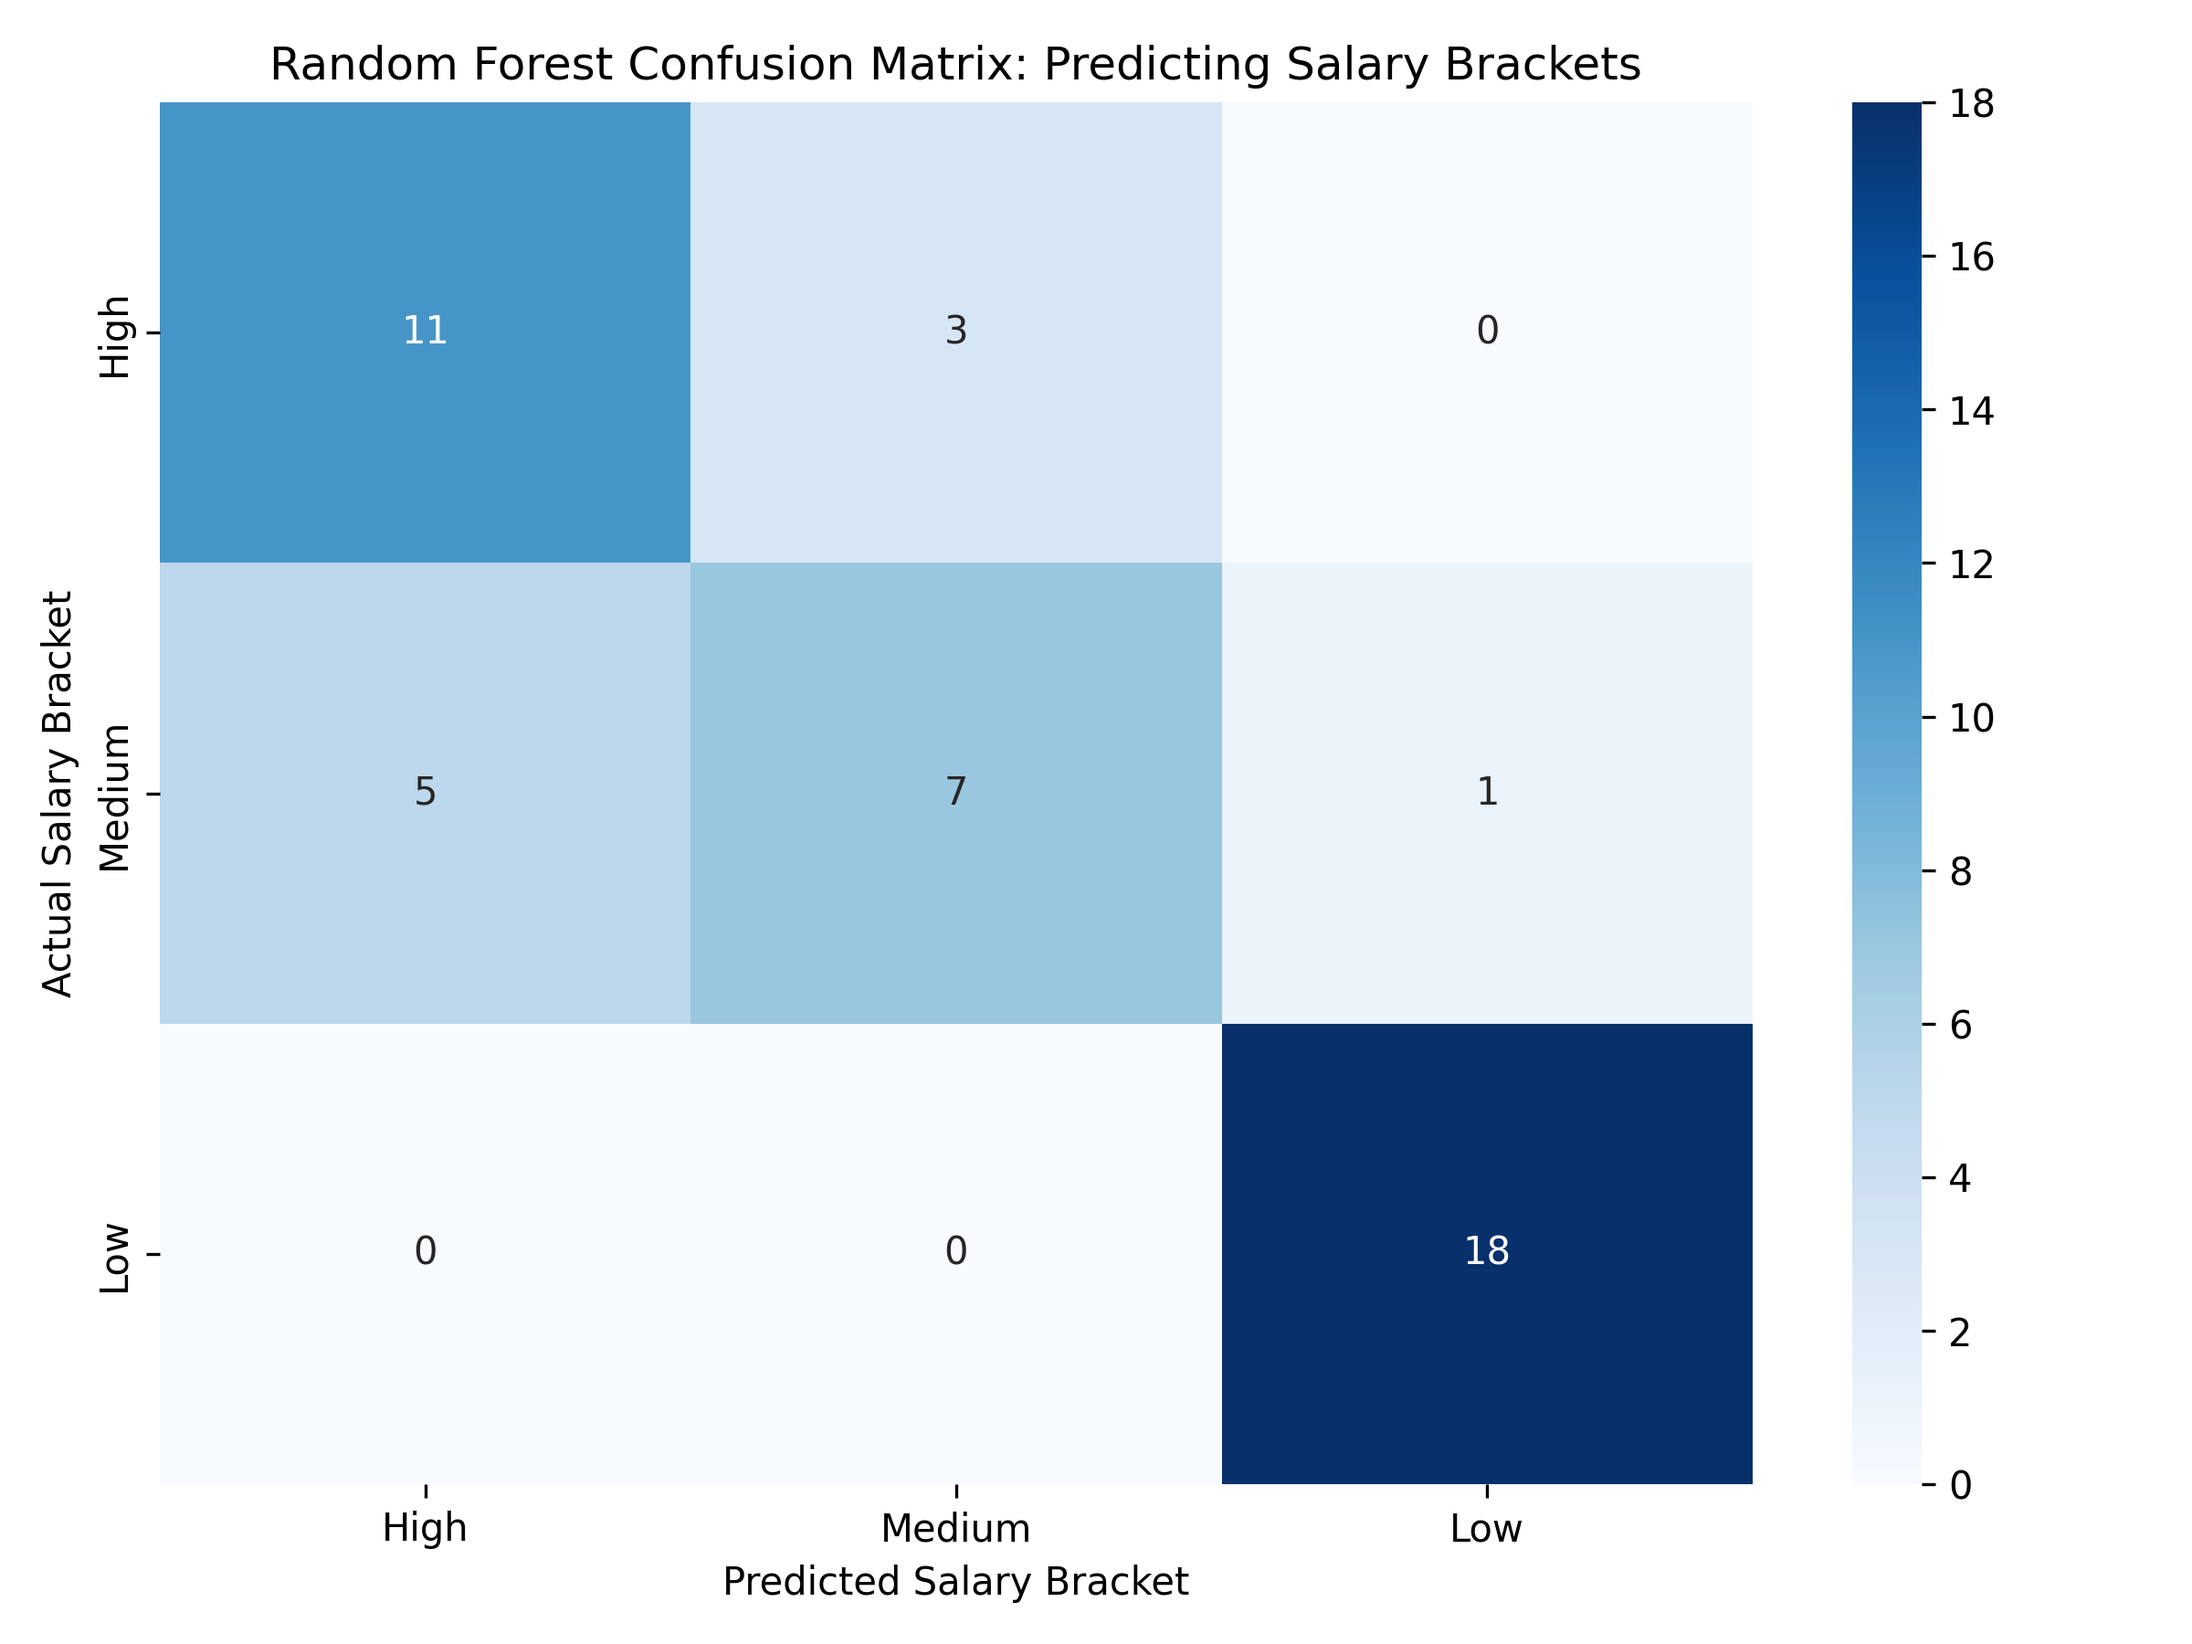
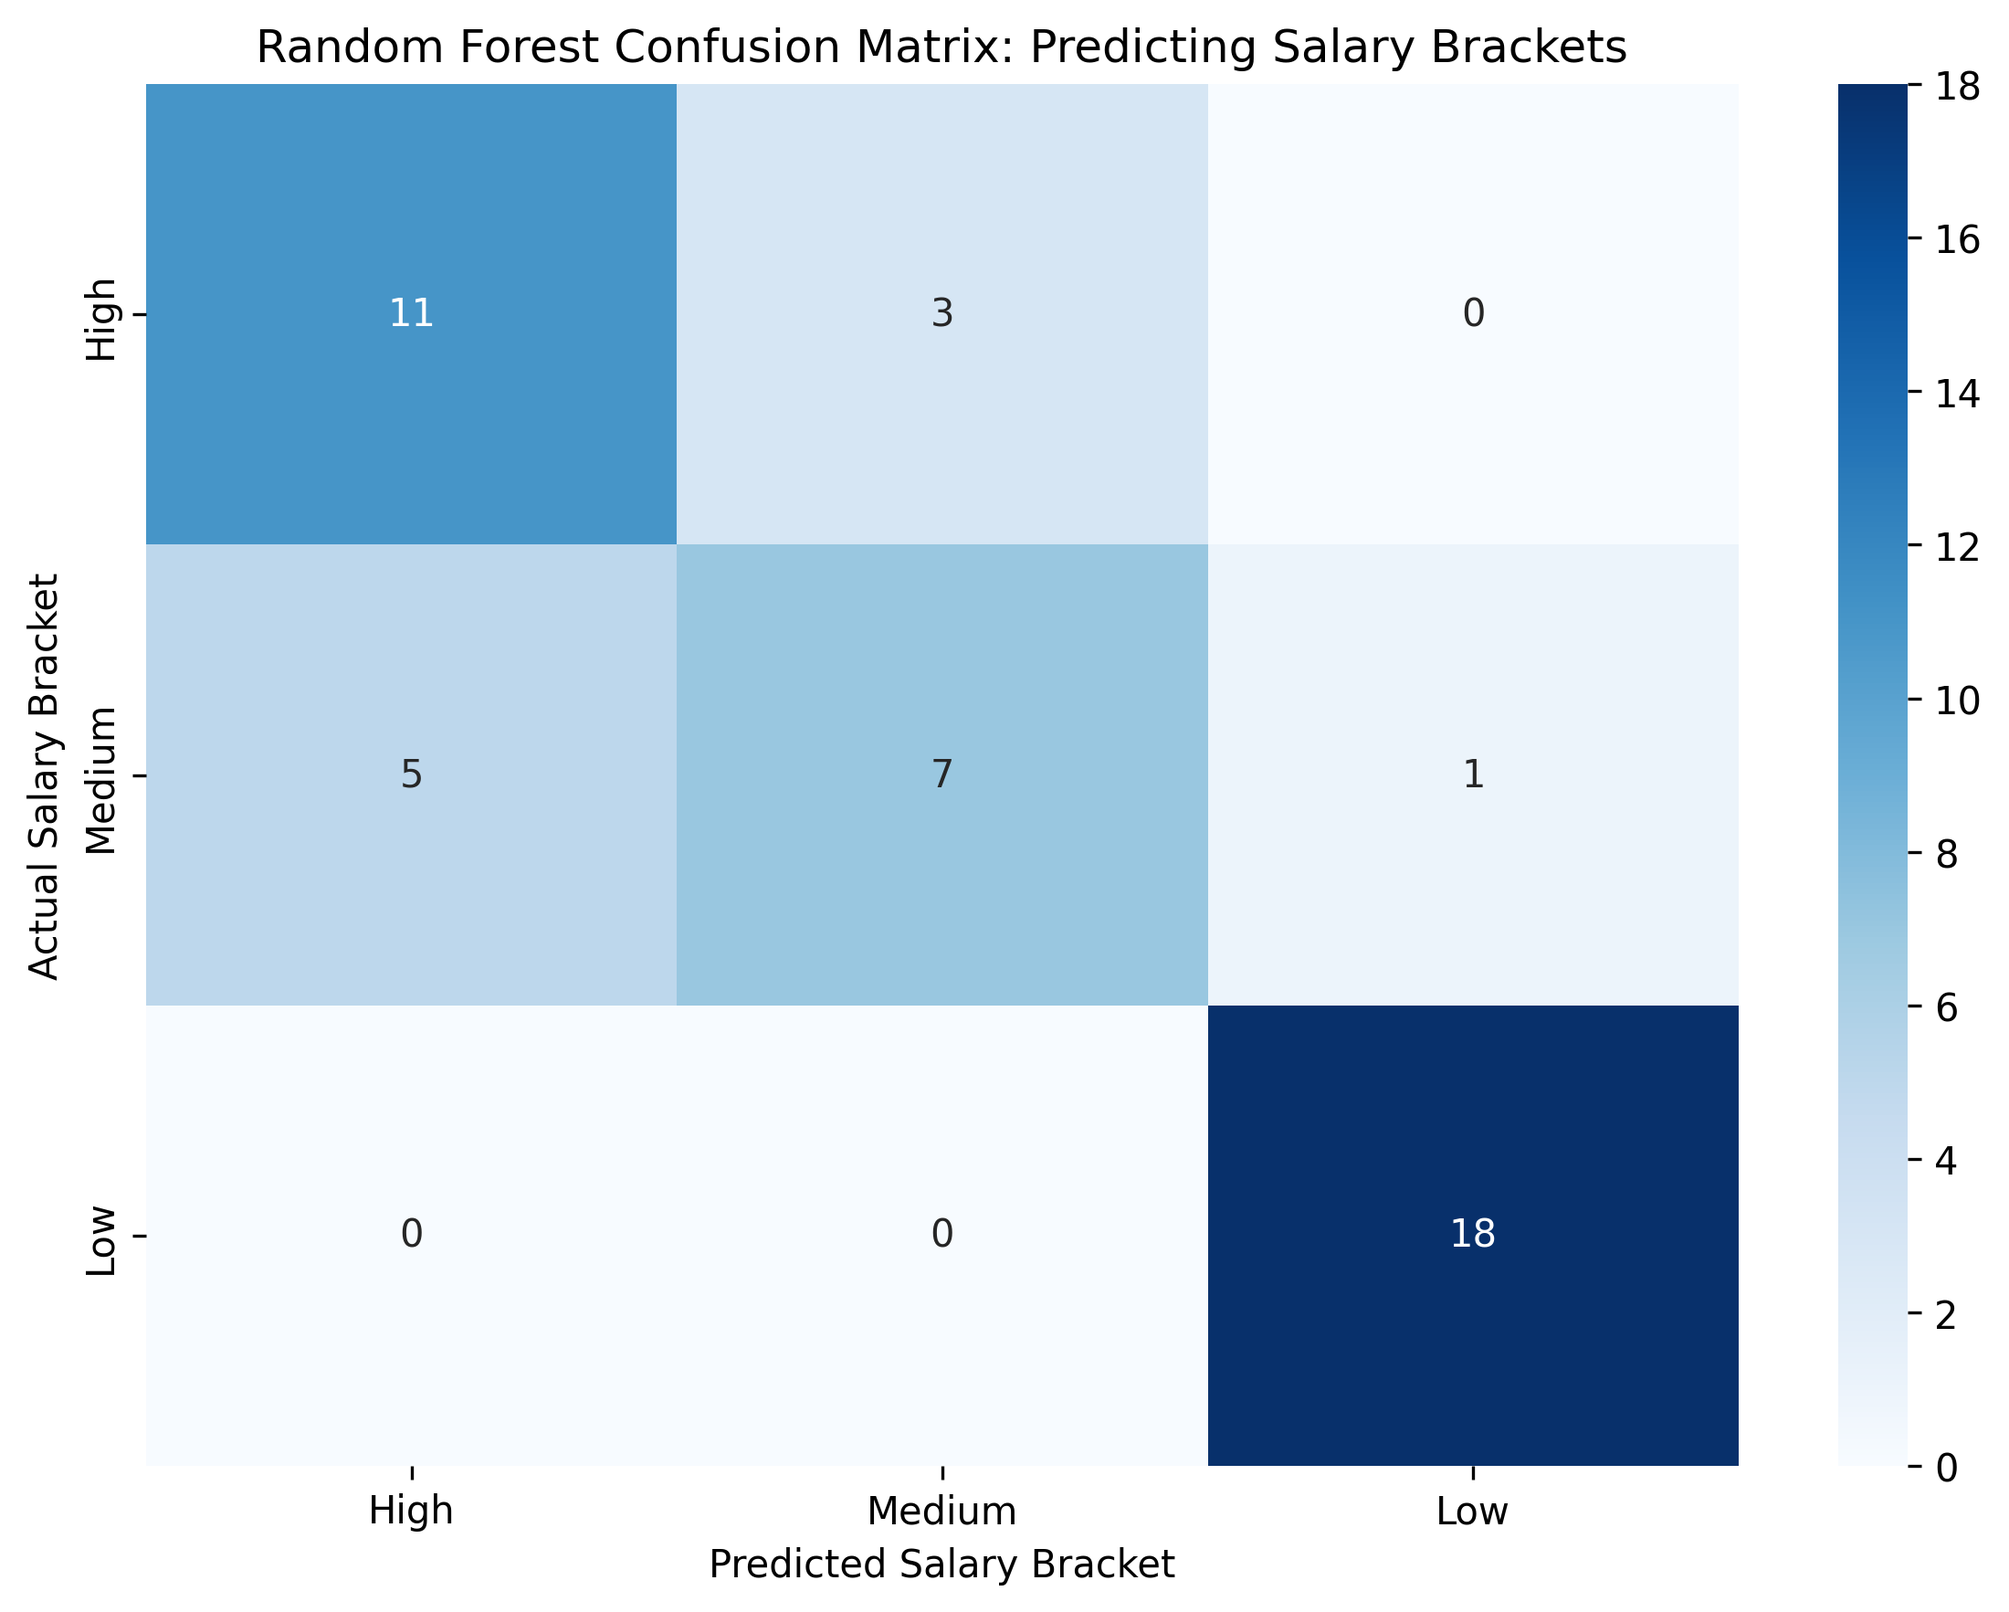
EDA Calcs

diff --git a/MLM.py b/MLM.py
@@ -1,5 +1,3 @@
-from ast import Load
-
 import pandas as pd
 import numpy as np
 import matplotlib.pyplot as plt
@@ -15,44 +13,85 @@ df_age = pd.read_csv('jadual_a1_umur_jumlah_cleaned.csv').dropna(subset=['Mean_S
 df_edu = pd.read_csv('jadual_a3_tp_jum_cleaned.csv').dropna(subset=['Mean_Salary'])
 
 # Descriptive Statistics
-print("--- DESCRIPTIVE STATISTICS (Education Dataset) ---")
-mean_sal = df_edu['Mean_Salary'].mean()
-median_sal = df_edu['Mean_Salary'].median()
-sd_sal = df_edu['Mean_Salary'].std()
+print("--- 1. GENERATING DESCRIPTIVE STATISTICS TABLES ---")
 
-# Calculate Interquartile Range (IQR)
-q3, q1 = np.percentile(df_edu['Mean_Salary'], [75, 25])
-iqr_sal = q3 - q1
+# Calculate and Render Education Stats Table
+edu_stats = df_edu.groupby('Category')['Mean_Salary'].agg(
+    Count='count', Mean='mean', Median='median', Std_Dev='std', Min='min', Max='max'
+).round(2).reset_index()
+edu_stats.rename(columns={'Category': 'Education Level'}, inplace=True)
 
-print(f"Mean Salary: RM {mean_sal:.2f}")
-print(f"Median Salary: RM {median_sal:.2f}")
-print(f"Standard Deviation: RM {sd_sal:.2f}")
-print(f"Interquartile Range (IQR): RM {iqr_sal:.2f}\n")
+fig, ax = plt.subplots(figsize=(12, 4)) 
+ax.axis('off')
+ax.axis('tight')
+
+table_edu = ax.table(cellText=edu_stats.values.tolist(), colLabels=edu_stats.columns.tolist(), loc='center', cellLoc='center')
+table_edu.auto_set_font_size(False)
+table_edu.set_fontsize(11)
+table_edu.scale(1.2, 2.2)
+
+for (row, col), cell in table_edu.get_celld().items():
+    if row == 0:
+        cell.set_text_props(weight='bold', color='white')
+        cell.set_facecolor('#4c72b0')
+    else:
+        cell.set_facecolor('#f2f2f2' if row % 2 == 0 else '#ffffff')
+
+plt.title('Descriptive Statistics by Education Level', fontweight='bold', fontsize=14, pad=30)
+plt.savefig('eda_education_table_visual.png', dpi=300, bbox_inches='tight')
+plt.close()
+
+# Calculate and Render Overall Distribution Metrics Table
+overall_stats = pd.DataFrame({
+    'Metric': ['Overall Mean', 'Overall Median', 'Skewness (Right-Skewed)', 'Kurtosis'],
+    'Value': [
+        round(df_age['Mean_Salary'].mean(), 2),
+        round(df_age['Mean_Salary'].median(), 2),
+        round(df_age['Mean_Salary'].skew(), 3),
+        round(df_age['Mean_Salary'].kurtosis(), 3)
+    ]
+})
+
+fig2, ax2 = plt.subplots(figsize=(7, 3))
+ax2.axis('off')
+table_overall = ax2.table(cellText=overall_stats.values.tolist(), colLabels=overall_stats.columns.tolist(), loc='center', cellLoc='center')
+table_overall.auto_set_font_size(False)
+table_overall.set_fontsize(11)
+table_overall.scale(1.2, 2.2)
+
+for (row, col), cell in table_overall.get_celld().items():
+    if row == 0:
+        cell.set_text_props(weight='bold', color='white')
+        cell.set_facecolor('#55a868')
+    else:
+        cell.set_facecolor('#f2f2f2' if row % 2 == 0 else '#ffffff')
+
+plt.title('Overall Salary Distribution Metrics', fontweight='bold', fontsize=14, pad=30)
+plt.savefig('eda_overall_stats_visual.png', dpi=300, bbox_inches='tight')
+plt.close()
+print("Success: Generated visual tables for Descriptive Statistics.\n")
 
 # Statistical Inference
-print("--- HYPOTHESIS TEST 1: EDUCATION (Tertiary vs Secondary) ---")
+print("--- 2. HYPOTHESIS TESTING (Welch's t-test) ---")
+# Education Test: Tertiary vs Secondary
 salaries_tertiary = df_edu[df_edu['Category'] == 'Tertiary']['Mean_Salary']
 salaries_secondary = df_edu[df_edu['Category'] == 'Secondary']['Mean_Salary']
-
 t_stat_edu, p_val_edu = stats.ttest_ind(salaries_tertiary, salaries_secondary, equal_var=False)
-print(f"T-statistic: {t_stat_edu:.4f}, P-value: {p_val_edu:.4e}\n")
+print(f"Education T-test: T-stat = {t_stat_edu:.4f}, P-value = {p_val_edu:.4e}")
 
-print("--- HYPOTHESIS TEST 2: AGE GROUP (Midpoint 27.0 vs 47.0) ---")
+# Age Test: Young (27) vs Senior (47)
 salaries_young = df_age[df_age['Age_Midpoint'] == 27.0]['Mean_Salary']
 salaries_senior = df_age[df_age['Age_Midpoint'] == 47.0]['Mean_Salary']
-
 t_stat_age, p_val_age = stats.ttest_ind(salaries_young, salaries_senior, equal_var=False)
-print(f"T-statistic: {t_stat_age:.4f}, P-value: {p_val_age:.4e}\n")
+print(f"Age T-test: T-stat = {t_stat_age:.4f}, P-value = {p_val_age:.4e}\n")
 
-# Machine Learning Classification
-print("--- MACHINE LEARNING: RANDOM FOREST CLASSIFICATION ---")
-
+# Machine Learning
+print("--- 3. MACHINE LEARNING: RANDOM FOREST CLASSIFICATION ---")
 df_ml = df_age[['Year', 'Age_Midpoint', 'Mean_Salary']].copy()
 df_ml['Salary_Bracket'] = pd.qcut(df_ml['Mean_Salary'], q=3, labels=['Low', 'Medium', 'High'])
 
 X = df_ml[['Year', 'Age_Midpoint']]
 y = df_ml['Salary_Bracket']
-
 X_train, X_test, y_train, y_test = train_test_split(X, y, test_size=0.3, random_state=42)
 
 rf_model = RandomForestClassifier(n_estimators=100, random_state=42)
@@ -62,18 +101,16 @@ y_pred = rf_model.predict(X_test)
 print("Classification Report:")
 print(classification_report(y_test, y_pred))
 
-# Confusion Matrix Visualization
+# Render Confusion Matrix Visualization
 labels = ['High', 'Medium', 'Low']
 cm = confusion_matrix(y_test, y_pred, labels=labels)
-
 plt.figure(figsize=(8, 6))
 sns.heatmap(cm, annot=True, fmt='d', cmap='Blues', xticklabels=labels, yticklabels=labels)
 plt.title('Random Forest Confusion Matrix: Predicting Salary Brackets')
 plt.ylabel('Actual Salary Bracket')
 plt.xlabel('Predicted Salary Bracket')
 plt.tight_layout()
-
-plt.savefig('ml_confusion_matrix.png', dpi=300)
+plt.savefig('ml_confusion_matrix.png', dpi=300, bbox_inches='tight')
 plt.close()
 
-print("\nSuccess: Saved visual Confusion Matrix as 'ml_confusion_matrix.png'")
+print("\nSuccess: Generated all terminal outputs and 3 visual PNGs.")
